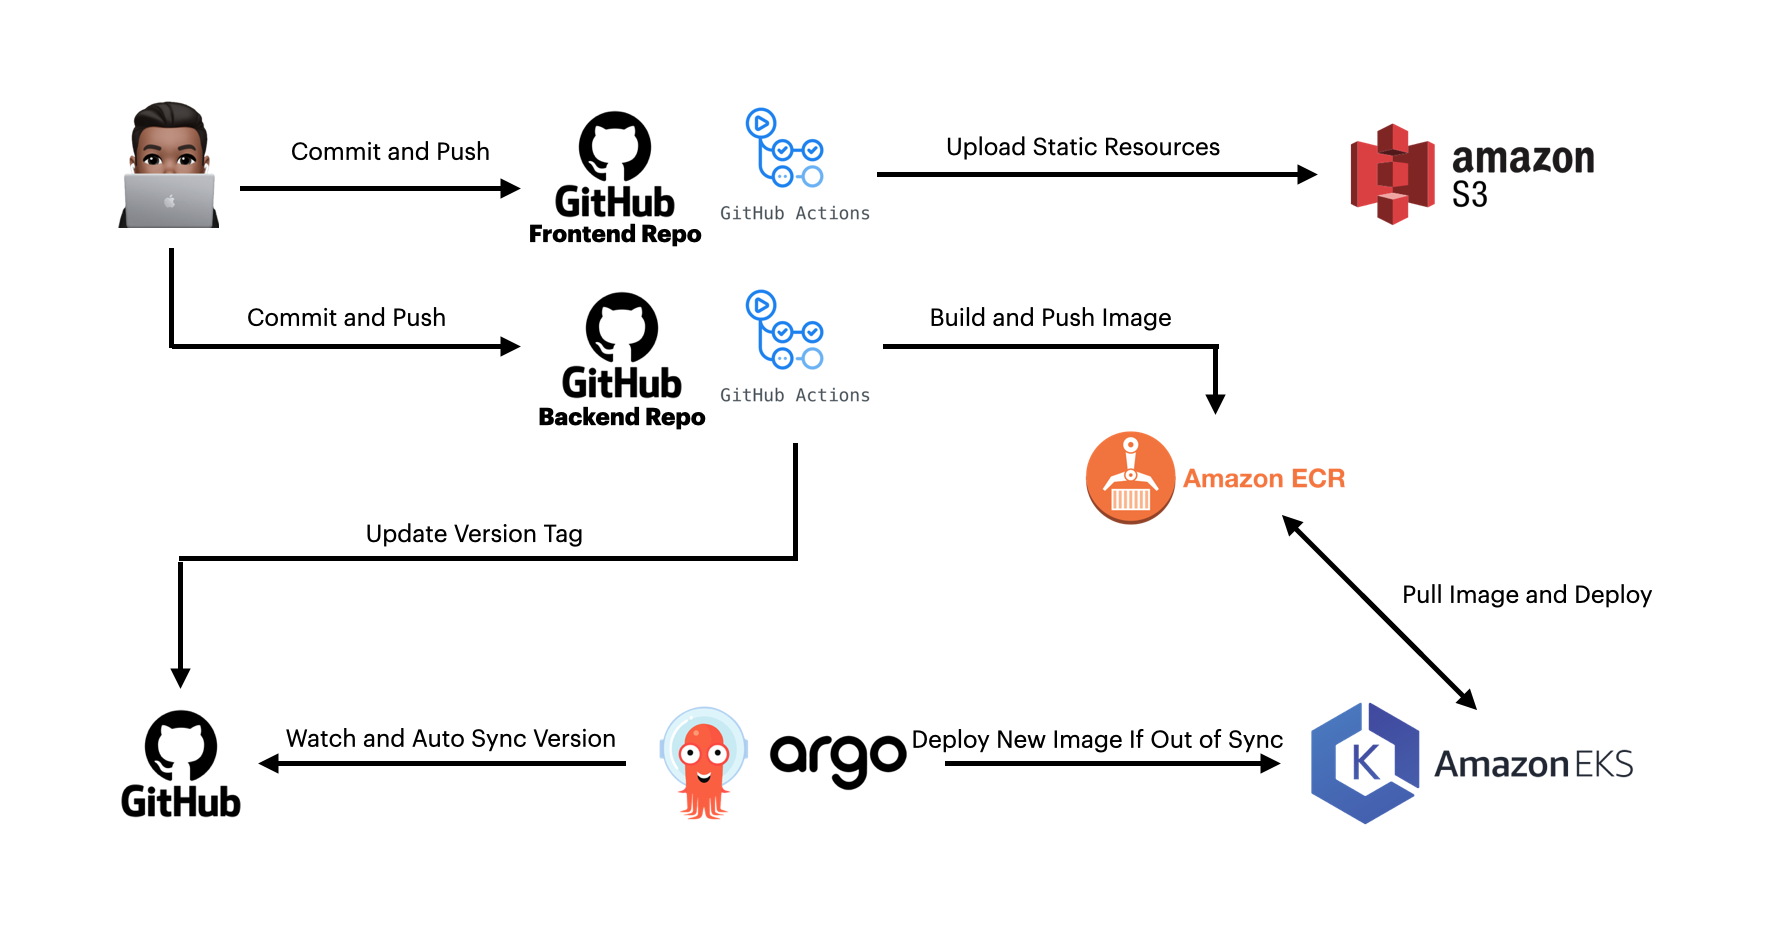
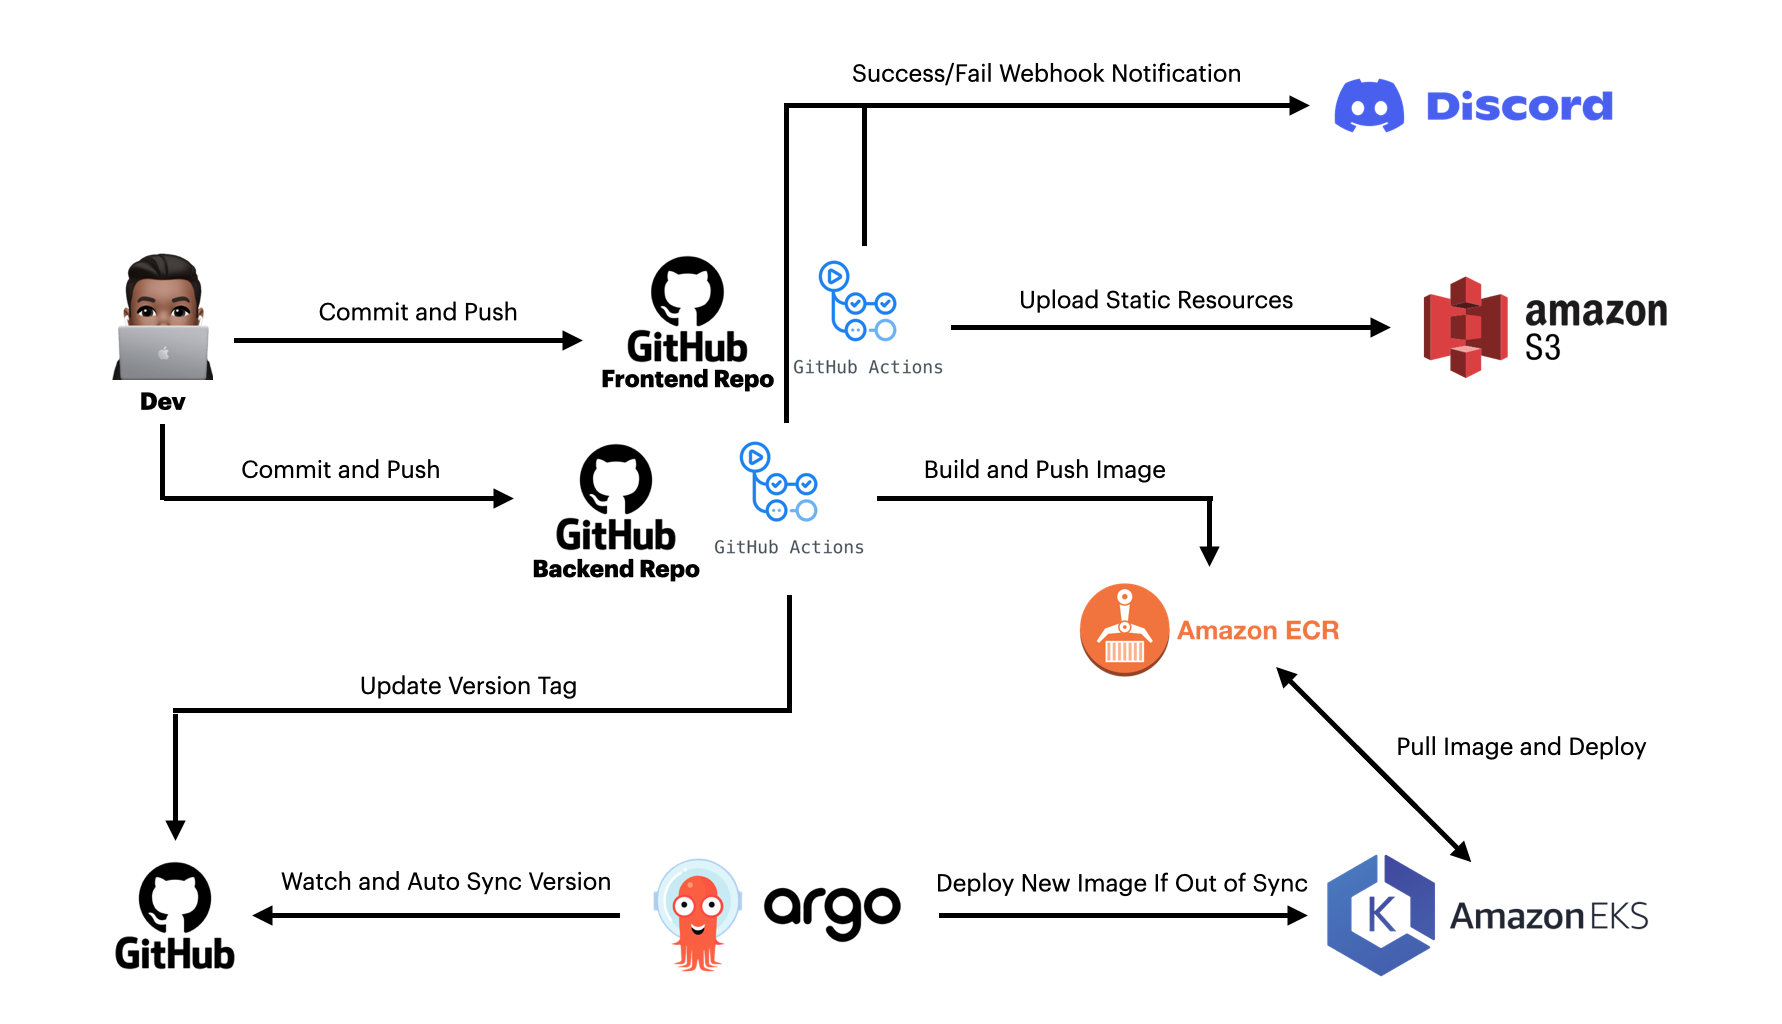
msg

diff --git a/README.md b/README.md
@@ -11,7 +11,7 @@
 
 - 이전에 개발했던 한끼얼마 애플리케이션의 CI, CD 파이프라인을 구축
 - AWS 아키텍처를 설계하고 구축
-- 테라폼을 이용해 Infra as Code 구현
+- Terraform을 이용해 Infra as Code 구현
 
 ### 1.1. 프로젝트 멤버
 
@@ -27,19 +27,60 @@
 	- AWS
 	- Terraform
 - CI/CD
-	- GitHub Action
+	- GitHub Actions
 	- ArgoCD
 
 ## 2. CI/CD Pipeline
 
 ![sc](https://github.com/seungwonbased/hanggi-terraform/blob/main/assets/cicd.png)
 
-## 1. Terraform S3, DynamoDB 백엔드 구성
-### 1.1. Backend Terraform Code
+- 개발자가 리포지토리에 Push만 하면 구성된 인프라에 자동으로 배포됨
 
-<a href="https://github.com/seungwonbased/hanggi-terraform/blob/main/backend.tf" target="_blank">🧾 [backend.tf] Source Code</a>
+### 2.1. Frontend 배포 파이프라인
 
-```terraform
+1. GitHub 리포지토리에 Push
+2. 변경 사항이 생기면 GitHub Actions가 React 애플리케이션을 빌드 후 S3에 업로드해 정적 웹 호스팅
+
+### 2.2. Backend 배포 파이프라인
+
+1. GitHub 리포지토리에 Push
+2. 변경 사항이 생길 시 Git Actions 동작
+	1. Flask 애플리케이션을 도커 이미지로 빌드 후 AWS ECR로 Push
+	2. seungwonbased/cicd-argocd 리포지토리의 버전 태그 업데이트
+3. ArgoCD가 seungwonbased/cicd-argocd 리포지토리를 감시하고 있다가 버전 태그가 업데이트되면 EKS에 Sync 알림 전달
+	1. 개발자의 코드를 한 번 검토하고 배포하고 싶을 경우 Manual, 자동으로 배포하고 싶을 경우 Autosync
+4. EKS가 Sync를 전달받으면 ECR에 해당 버전이 태그되어 있는 이미지를 이용해 새로운 Deployment 생성
+
+### 2.3. Discord 알림
+
+1. Frontend 혹은 Backend 리포지토리의 Git Actions 동작
+2. Webhook을 통해 빌드 및 배포 성공 여부를 Discord에 메시지 전송
+
+## 3. Infra Architecture
+
+![sc](https://github.com/seungwonbased/hanggi-terraform/blob/main/assets/infra.png)
+
+- S3 버킷에 Frontend 애플리케이션을 호스팅해 비용 효율적
+- EC2 Bastion Host를 하나 띄워 프라이빗 서브넷에 있는 데이터베이스와 SSH 터널링
+	- 터널링을 통해 데이터베이스 관리
+- 두 개의 AZ에 Kubernetes 클러스터, DB 클러스터를 구축해 고가용성 확보
+- EKS를 사용한 관리형 Kubenetes 인프라 구축
+	- 로컬 머신에 Kubernetes 콘솔을 구성해 kubectl 명령으로 관리 가능
+- ECR의 프라이빗 리포지토리 사용
+
+## 4. Infrastructure as Code
+
+- 한 번의 `terraform apply` 명령으로 인스턴스, 클러스터, 역할 등의 모든 AWS 리소스 배포
+- Terraform 코드를 모듈화하여 유지보수를 용이하게 하고 가독성을 높임
+
+> 주요 리소스 생성 과정
+
+### 4.1. Terraform S3, DynamoDB 백엔드 구성
+#### 4.1.1. Backend Terraform Code
+
+<a href="https://github.com/seungwonbased/hanggi-terraform/blob/main/backend.tf" target="_blank">🧾 [backend.tf] 전체 Source Code</a>
+
+```hcl
 resource "aws_s3_bucket" "terraform-backend" {  
   bucket = "hanggi-terraform-state-backend"  
   
@@ -78,23 +119,169 @@ resource "aws_dynamodb_table" "terraform-state-lock" {
 - S3의 버저닝을 Enable해 상태 파일의 버전을 관리할 수 있음
 - DynamoDB를 Lock 파일 저장소로 사용
 
-### 1.1. 결과
+#### 4.1.2. 결과
 
-![sc](https://github.com/seungwonbased/hanggi-terraform/tree/main/assets/sc1.png)
+![sc](https://github.com/seungwonbased/hanggi-terraform/blob/main/assets/sc1.png)
 
 - 상태 파일을 저장하는 버킷 생성
 
-![sc](https://github.com/seungwonbased/hanggi-terraform/tree/main/assets/sc1.png)
+![sc](https://github.com/seungwonbased/hanggi-terraform/blob/main/assets/sc2.png)
 
 - Lock 파일을 저장하는 테이블 생성
 
-## 2. VPC, 서브넷 생성
-### 2.1. VPC Terraform Code
+### 4.2. VPC, 서브넷 생성
+#### 4.2.1. VPC, Subnet Terraform Code
 
-> <a href="https://github.com/seungwonbased/hanggi-terraform/blob/main/modules/vpc/main.tf" target="_blank">🧾 [/modules/vpc/main.tf] Source Code</a>
+> <a href="https://github.com/seungwonbased/hanggi-terraform/blob/main/modules/vpc/main.tf" target="_blank">🧾 [/modules/vpc/main.tf] 전체 Source Code</a>
 
+> <a href="https://github.com/seungwonbased/hanggi-terraform/blob/main/modules/vpc/subnet/main.tf" target="_blank">🧾 [/modules/vpc/subnet/main.tf] 전체 Source Code</a>
 
+- 본 모듈에서 선언한 리소스
+	- VPC
+	- Subnet
+	- Internet Gateway
+	- Route Table
+	- Elastic IP
+- CIDR 블록, VPC 이름, 리전은 변수로 설정해 `terraform apply` 명령 시 입력하도록 함
 
+#### 4.2.2. 결과
 
-> <a href="https://github.com/seungwonbased/hanggi-terraform/blob/main/modules/vpc/subnet/main.tf" target="_blank">🧾 [/modules/vpc/subnet/main.tf] Source Code</a>
+![sc](https://github.com/seungwonbased/hanggi-terraform/blob/main/assets/sc3.png)
+
+![sc](https://github.com/seungwonbased/hanggi-terraform/blob/main/assets/sc4.png)
+
+### 4.3. ECR 생성
+#### 4.3.1. ECR Terraform Code
+
+> <a href="https://github.com/seungwonbased/hanggi-terraform/blob/main/modules/ecr/main.tf" target="_blank">🧾 [/modules/ecr/main.tf] 전체 Source Code</a>
+
+- Backend 애플리케이션 도커 이미지가 저장될 리포지토리 선언
+
+#### 4.3.2. 결과
+
+![sc](https://github.com/seungwonbased/hanggi-terraform/blob/main/assets/sc5.png)
+
+### 4.4. 정적 웹 호스팅을 위한 S3 생성
+#### 4.4.1. S3 Terraform Code
+
+> <a href="https://github.com/seungwonbased/hanggi-terraform/blob/main/modules/ecr/main.tf" target="_blank">🧾 [/modules/ecr/main.tf] 전체 Source Code</a>
+
+```hcl
+resource "aws_s3_bucket" "s3-static-web-server" {  
+  bucket = "hanggi-static-web-server"  
+}  
+
+...
+
+resource "aws_s3_bucket_acl" "s3-static-web-server" {  
+  depends_on = [  
+    aws_s3_bucket_ownership_controls.s3-static-web-server,  
+    aws_s3_bucket_public_access_block.s3-static-web-server,  
+  ]  
+  
+  bucket = aws_s3_bucket.s3-static-web-server.id  
+  acl    = "public-read"  
+}  
+  
+...
+
+```
+
+- 정적 웹 호스팅을 위해 S3의 ACL 공개 읽기 권한을 설정
+
+#### 4.4.2. 결과
+
+![sc](https://github.com/seungwonbased/hanggi-terraform/blob/main/assets/sc6.png)
+
+![sc](https://github.com/seungwonbased/hanggi-terraform/blob/main/assets/sc7.png)
+
+## 5. RDS 생성
+### 5.1. RDS Terraform Code
+
+```hcl
+resource "aws_db_subnet_group" "rds-subnet-group" {  
+  name = "rds-subnet-group"  
+  subnet_ids = [  
+    var.subnet_1_id,  
+    var.subnet_2_id  
+  ]  
+}  
+  
+  
+resource "aws_db_instance" "hanggi-rds" {  
+  allocated_storage = 5  
+  max_allocated_storage = 20  
+  availability_zone = "us-west-2b"  
+  vpc_security_group_ids = [ var.sg_id ]  
+  db_subnet_group_name = aws_db_subnet_group.rds-subnet-group.name  
+  engine = "postgres"  
+  engine_version = "15.4"  
+  instance_class = "db.t3.micro"  
+  skip_final_snapshot = true  
+  identifier = "recipe-rds"  
+  db_name = var.db_name  
+  username = var.db_username  
+  password = var.db_password  
+  port = "5432"  
+}
+```
+
+#### 5.1.1. Issue: Option Combination Error
+
+- RDS를 생성할 때는 옵션의 조합을 잘 봐야 함
+- 처음에 프리 티어 사용을 위해 t2.micro 인스턴스를 선택
+	- 고가용성을 위해 Multi-AZ로 DB를 구성할 경우 t2 시리즈는 지원하지 않음
+- t3.micro 인스턴스를 사용해 해결
+
+### 5.2. 결과
+
+![sc](https://github.com/seungwonbased/hanggi-terraform/blob/main/assets/sc8.png)
+
+## 6. EKS 클러스터, 노드 생성
+### 6.1. EKS Terraform Code
+
+```hcl
+resource "aws_eks_cluster" "hanggi-eks-cluster" {  
+  name     = "hanggi-eks-cluster"  
+  role_arn = var.role_arn  
+  version = "1.28"  
+  
+  enabled_cluster_log_types = ["api", "audit", "authenticator", "controllerManager", "scheduler"]  
+  
+  vpc_config {  
+    security_group_ids = [ var.eks_cluster_sg_id ]  
+    subnet_ids         = [ var.eks_subnet_1_id, var.eks_subnet_2_id ]  
+    endpoint_private_access = true  
+    endpoint_public_access = true  
+  }  
+}  
+  
+  
+resource "aws_eks_node_group" "eks-nodes" {  
+  cluster_name  = aws_eks_cluster.hanggi-eks-cluster.name  
+  node_group_name = "eks-nodes"  
+  node_role_arn = var.role_arn  
+  subnet_ids    = [ var.eks_subnet_1_id, var.eks_subnet_2_id ]  
+  instance_types = [ "t3.small" ]  
+  disk_size = 20  
+  ami_type = "AL2_x86_64"  
+  
+  scaling_config {  
+    desired_size = 3  
+    max_size     = 4  
+    min_size     = 2  
+  }  
+}
+```
+
+#### 6.1.1. Issue: Unsupported AMI
+
+- Amazon Linux 계열이 아니면 호환을 백프로 보장해주지는 않는듯 함
+- 호환되는 Amazon Linux를 명시해 해결
+
+### 6.2. 결과
+
+![sc](https://github.com/seungwonbased/hanggi-terraform/blob/main/assets/sc9.png)
+
+![sc](https://github.com/seungwonbased/hanggi-terraform/blob/main/assets/sc10.png)
 
